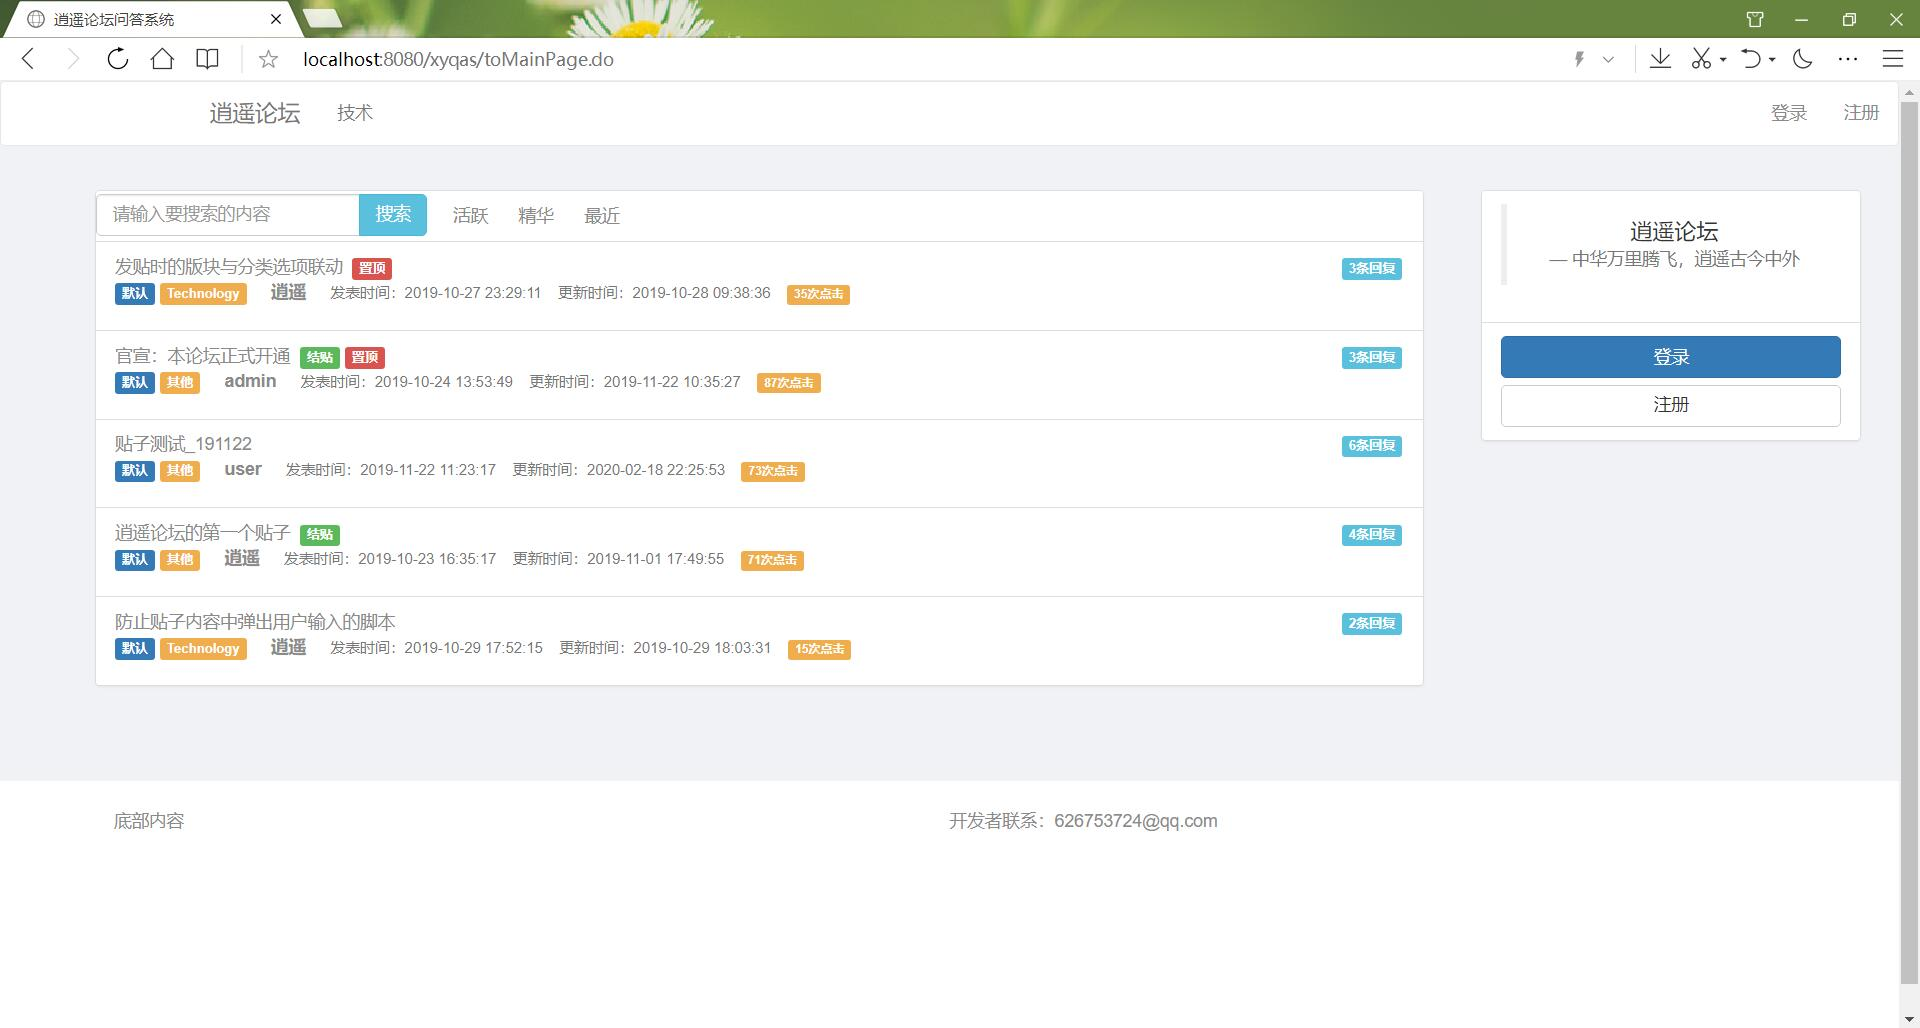
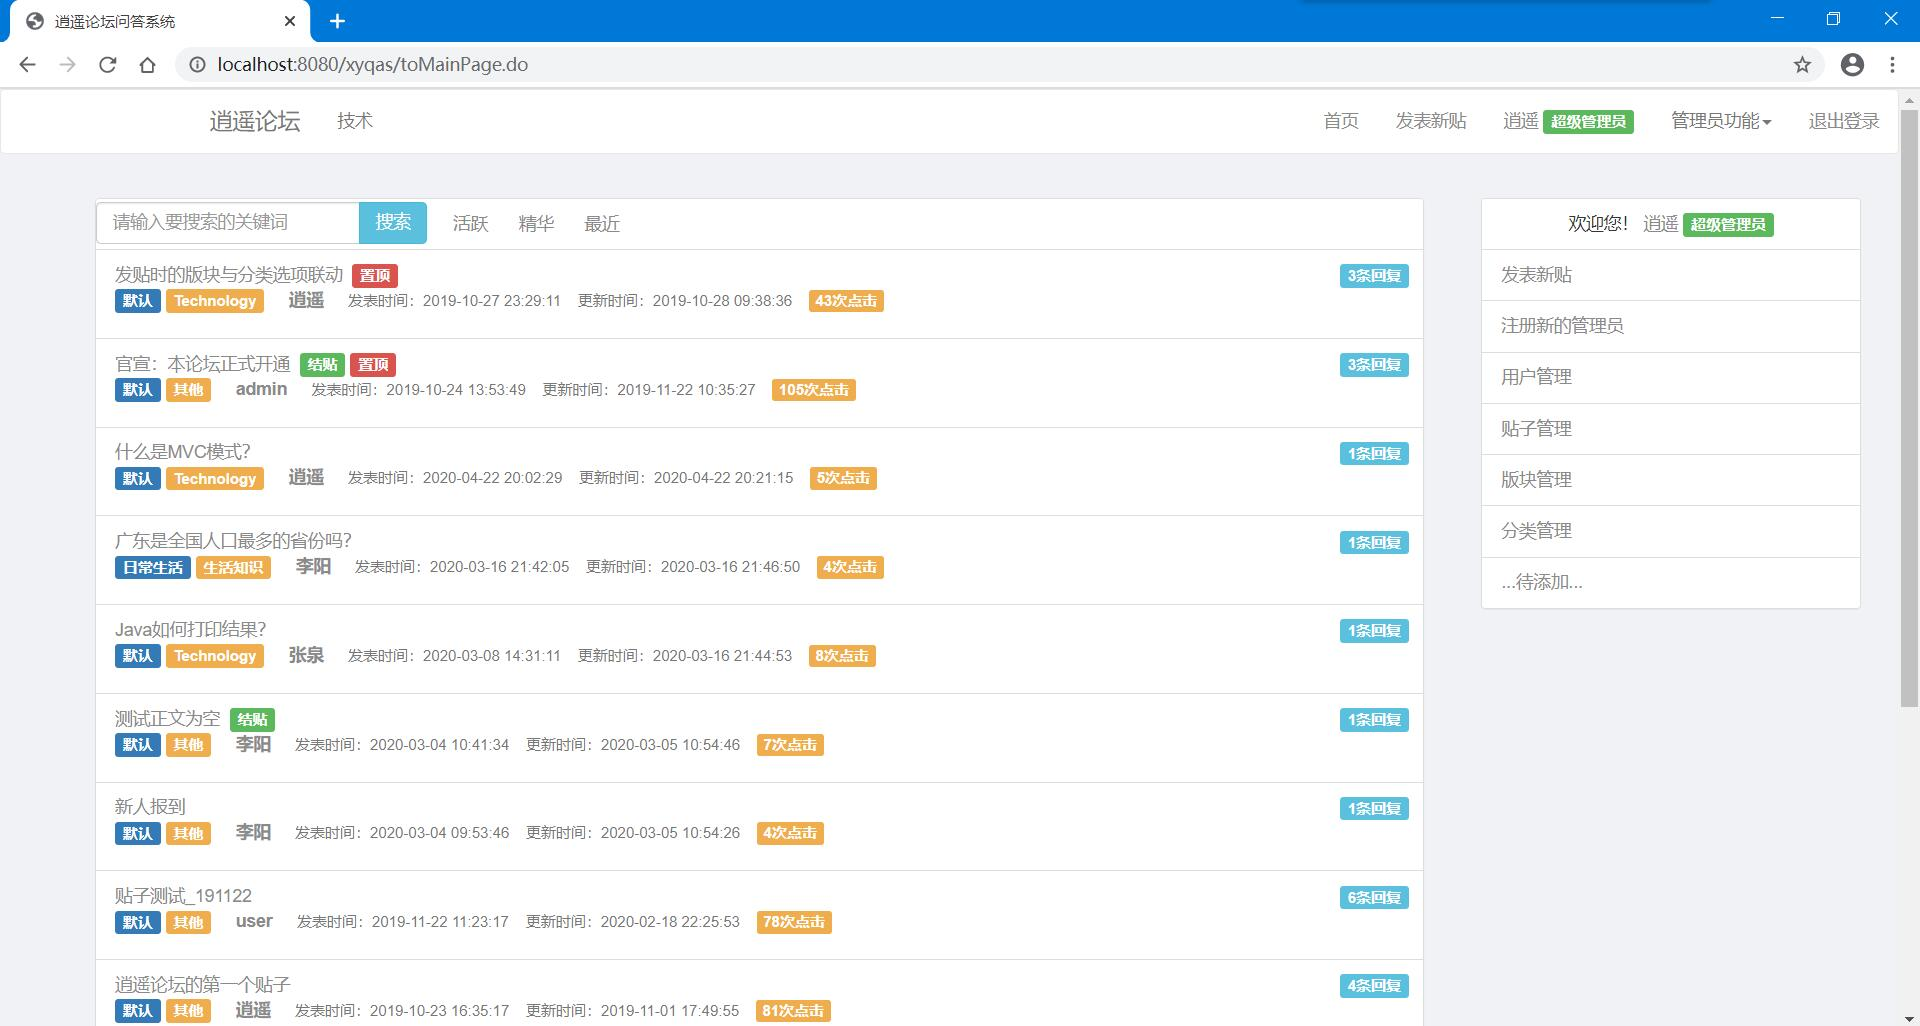
换新项目预览图，修改README

diff --git a/README.md b/README.md
@@ -29,7 +29,7 @@ JavaWeb容器：Tomcat 8.5
 管理员功能下拉列表<br>
 ![](/preview/管理员功能下拉列表.jpg)
 发表贴子<br>
-![](/preview/发表贴子.jpg)
+![](/preview/old/发表贴子_200227.jpg)
 查看贴子<br>
 ![](/preview/查看贴子.jpg)
 
